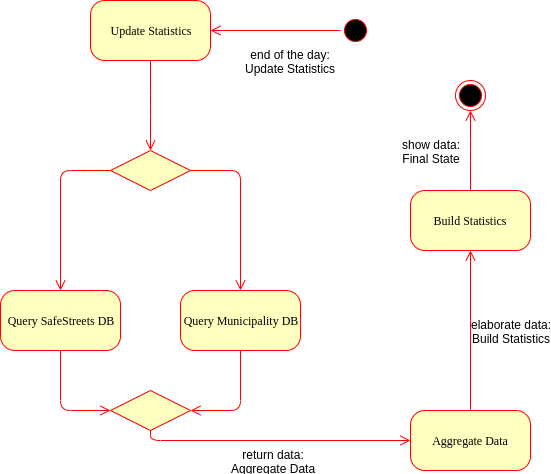
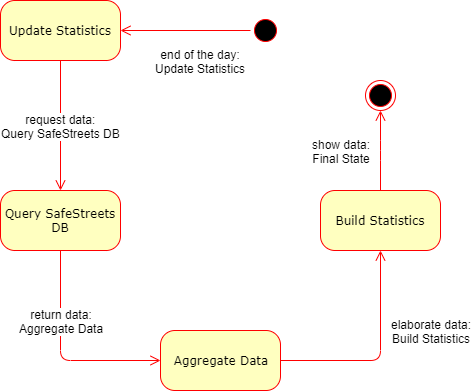
Modify 2.3.2 2.3.3 diagrams RASD after DD

diff --git a/DD/subsections/section2/microservices.tex b/DD/subsections/section2/microservices.tex
@@ -5,7 +5,7 @@ In this subsection it is explained which microservices will be custom and which 
 	\item \textbf{Login - \href{https://cloud.ibm.com/catalog/services/app-id}{IBM App ID}}: \hypertarget{appidsafestreets}{This microservice} is about User Authentication and Management, and provides a log-in framework. App ID will be used to add authentication to our web and mobile apps securing our Cloud-native applications and services on IBM Cloud. By requiring users to sign in to our app, we will be able to store user data such as app preferences or information from public social profile to recognize user that reports violations and customize each user's experience within the app.
 	\\When a user is successfully authenticated, the application receives tokens from App ID. The service uses three main types of tokens to complete the authentication process: Access Token, Identity Token and Refresh Token.
 	\begin{figure}[h!]
-		\makebox[\textwidth]{\includegraphics[width=1.15\textwidth]{/images/microservices/appidarchitecture.png}}
+		\makebox[\textwidth]{\includegraphics[width=1.15\textwidth]{images/microservices/appidarchitecture.png}}
 		\caption{IBM App ID working diagram.}
 	\end{figure}
 	\FloatBarrier
@@ -14,7 +14,7 @@ In this subsection it is explained which microservices will be custom and which 
 	\\Its usage is simple as making an HTTP request to its POST API sending the image then wait for it to finish his work. The response that it returns includes keywords that provide information about the content along with an estimate probability of them being identified.
 	\\In addition, IBM Watson Visual Recognition supports high availability with no single point of failure. Recovering from potential disasters that affect an entire IBM location requires planning and preparation but can always be done saving all of our custom training model.
 	\begin{figure}[h!]
-		\makebox[\textwidth]{\includegraphics[width=1.15\textwidth]{/images/microservices/visualrecognition.png}}
+		\makebox[\textwidth]{\includegraphics[width=1.15\textwidth]{images/microservices/visualrecognition.png}}
 		\caption{IBM Watson Visual Recognition working diagram.}
 	\end{figure}
 	\FloatBarrier
@@ -23,7 +23,7 @@ In this subsection it is explained which microservices will be custom and which 
 	\\This microservice is particularly useful when, at a given time everyday, SafeStreets crosses data coming from the municipality with its own data to extract potential suggestions.
 	\\With Discovery, it only takes a few steps to prepare our unstructured data coming from different sources and to create a query that will pinpoint the information SafeStreets needs. Discovery automatically uses data analysis combined with cognitive intuition to take the unstructured data and enriches it to discover hidden information.
 	\begin{figure}[h!]
-		\makebox[\textwidth]{\includegraphics[width=1.25\textwidth]{/images/microservices/discoveryflow.png}}
+		\makebox[\textwidth]{\includegraphics[width=1.25\textwidth]{images/microservices/discoveryflow.png}}
 		\caption{Complete architecture of our Discovery solution.}
 	\end{figure}
 	\FloatBarrier
@@ -33,7 +33,7 @@ In this subsection it is explained which microservices will be custom and which 
 	\\For example when someone reports a violation, the related images are instantaneously saved in the Storage, along with their metadata. Then, when the Computer Vision algorithm takes place on them, the metadata of such images will be updated with a PUT request with the information that it will extract (such as the presence of no-parking signs).
 	\\Last but not least, the IBM Cloud Object Storage can be easily associated with IBM Discovery as an external source for training.
 	\begin{figure}[h!]
-		\makebox[\textwidth]{\includegraphics[width=0.95\textwidth]{/images/microservices/policybasedarchive.png}}
+		\makebox[\textwidth]{\includegraphics[width=0.95\textwidth]{images/microservices/policybasedarchive.png}}
 		\caption{IBM automatically tier data to the lowest-cost archive.}
 	\end{figure}
 	\FloatBarrier
@@ -43,13 +43,13 @@ In this subsection it is explained which microservices will be custom and which 
 	Moreover, Cloudant is ISO27001, SOC 2.2 compliant and HIPAA ready. All data is encrypted over the wire and at rest. The service integrates with IBM Authentication and Management (IBM App ID) for granular access control at the API level.
 	\\Using this service, SafeStreets will not need any server (Cloudant is serverless) and its data will be automatically replicated closer to all the places it needs to be, for uninterrupted data access.
 	\begin{figure}[h!]
-		\makebox[\textwidth]{\includegraphics[width=0.9\textwidth]{/images/microservices/shardingdatabase.png}}
+		\makebox[\textwidth]{\includegraphics[width=0.9\textwidth]{images/microservices/shardingdatabase.png}}
 		\caption{How is data stored in IBM Cloudant}
 	\end{figure}
 	\FloatBarrier
 	All Q shards together contain the data within database. Each shard is stored in three separate copies. Each shard copy is called a shard replica. Each shard replica is stored on a different server. The servers are available within a single location data center. The collection of servers in a data center is called a cluster.
 	\begin{figure}[h!]
-		\makebox[\textwidth]{\includegraphics[width=0.9\textwidth]{/images/microservices/shardingdocument.png}}
+		\makebox[\textwidth]{\includegraphics[width=0.9\textwidth]{images/microservices/shardingdocument.png}}
 		\caption{How is data stored in IBM Cloudant}
 	\end{figure}
 	\FloatBarrier
@@ -57,7 +57,7 @@ In this subsection it is explained which microservices will be custom and which 
 	\item \textbf{Relational Database - \href{https://cloud.ibm.com/catalog/services/databases-for-postgresql}{IBM Cloud Databases for PostgreSQL}}: A relational DBMS was chosen for all the Databases that contains structured data and on which many queries will be done (Violation, Statistics). Postgres was chosen over all database because it is a powerful, open source object-relational database with JSON support, that gives the best of both the SQL and NoSQL worlds. The advantages in using an IBM Cloud Service to deploy such service relies on the fact that this service allows us to scale disk and RAM independently to best fit SafeStreets application requirements.
 	\\IBM Cloud Databases provide out-of-the-box integration with IBM Identity and Access Management that integrates completely into the SafeStreets architecture. 
 	\begin{figure}[h!]
-		\makebox[\textwidth]{\includegraphics[width=0.7\textwidth]{/images/microservices/postgres.png}}
+		\makebox[\textwidth]{\includegraphics[width=0.7\textwidth]{images/microservices/postgres.png}}
 		\caption{Scalable SafeStreets architecture to handle millions of users.}
 	\end{figure}
 	\FloatBarrier

diff --git a/RASD/sections/section3/diagrams.tex b/RASD/sections/section3/diagrams.tex
@@ -6,7 +6,7 @@ The user needs to insert a set of photos where a license plate is readable, and 
 \clearpage
 \subsubsection{Statistics Construction}
 At the end of the day the statistics need to be updated in order to offer to the users and to the officers only recent, and therefore consistent, information.
-When the servers will probably have the lowest load, so in the middle of the night, SafeStreets will at first retrieve the new data that are now present in both the reports DB and the accidents DB. Once the complex queries have returned the new information the data needs to be aggregate and elaborate in order to exhibit the updated statistics to the costumers of SafeStreets. 
+When the servers will probably have the lowest load, so in the middle of the night, SafeStreets will at first retrieve the new data that are now present in the SafeStreets database. Once the complex queries have returned the new information the data needs to be aggregate and elaborate in order to exhibit the updated statistics to the costumers of SafeStreets. 
 \\
 \\
 \\
@@ -15,7 +15,7 @@ When the servers will probably have the lowest load, so in the middle of the nig
 \makebox[\textwidth][c]{\includegraphics[width=1.0\textwidth]{diagrams/images/statisticsConstruction}}
 \clearpage
 \subsubsection{Data mining for Interventions}
-At the end of the day as soon as the statistics are completed, using the data just aggregated instead of doing the same process again, reducing the stress on the servers, the process of suggesting possible interventions needs to be executed. To do so, mining data using both SafeStreets data and municipality information on the accidents occurred in the city is necessary.
+At the end of the day as soon as the statistics are completed, the process of suggesting possible interventions needs to be executed. To do so, mining data using both SafeStreets data and municipality information on the accidents occurred in the city is necessary.
 The flow is similar to the one for the statistics, since both needs to retrieve data, analyze it and produce some result with it.
 After the process of computing information to suggest interventions in the city the authorities must be warned in order to actually intervene.
 \\

diff --git a/RASD/sections/section5/revision.tex b/RASD/sections/section5/revision.tex
@@ -1,3 +1,4 @@
 \begin{itemize}
 \item \textbf{v1.1 on 17/11/2019:} Added Computer Vision to double check automatic tickets and to mine vehicle information and minor fixes after a check with Luca Crippa - IBM.
+\item \textbf{v1.1 on 23/11/2019:} Modified diagrams and descriptions of 2.3.2 and 2.3.3 in order to be coherent with the microservices structure used in the Design Document.
 \end{itemize}

diff --git a/RASD/main.tex b/RASD/main.tex
@@ -32,7 +32,7 @@
 		{\large Andrea \textsc{Furlan}  \hfill 944774}\\[0.2cm]
 		{\large Cosimo \textsc{Russo}  \hfill 945891}\\[0.2cm]
 		{\large Giorgio \textsc{Ughini} \hfill 944710}\\[2cm]
-		{\large \today  \hfill Version 1.0}
+		{\large \today  \hfill Version 1.1}
 		\vfill
 	\end{titlepage}
 	\clearpage
